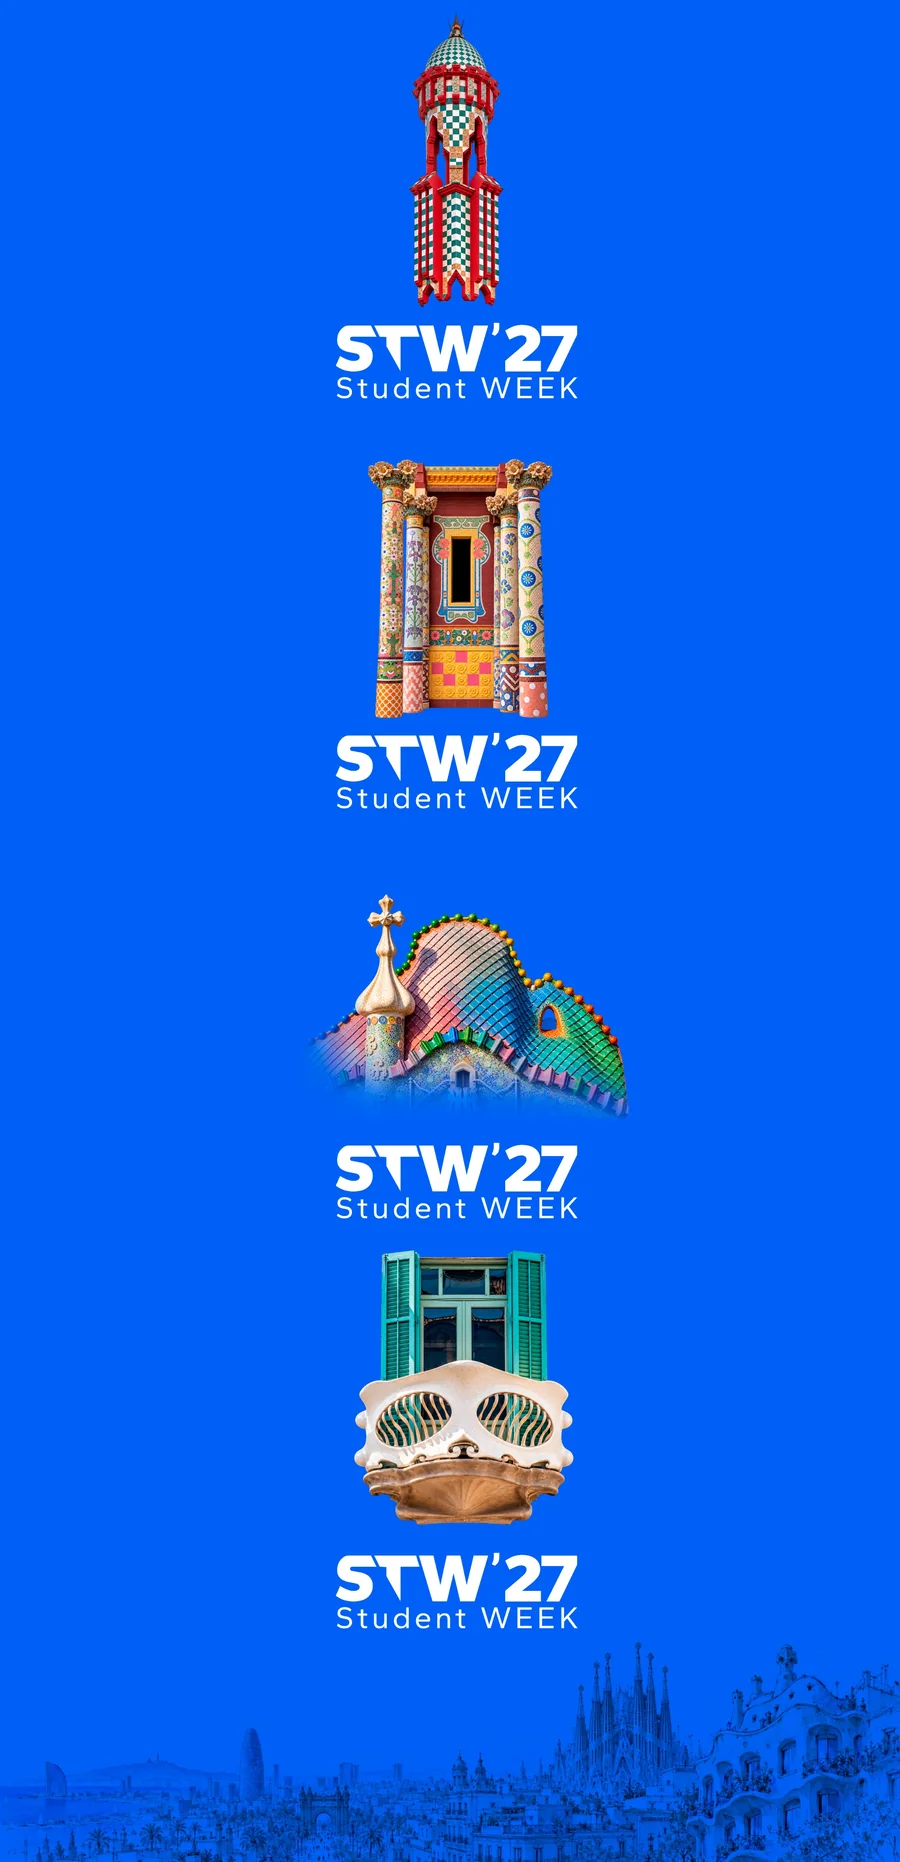
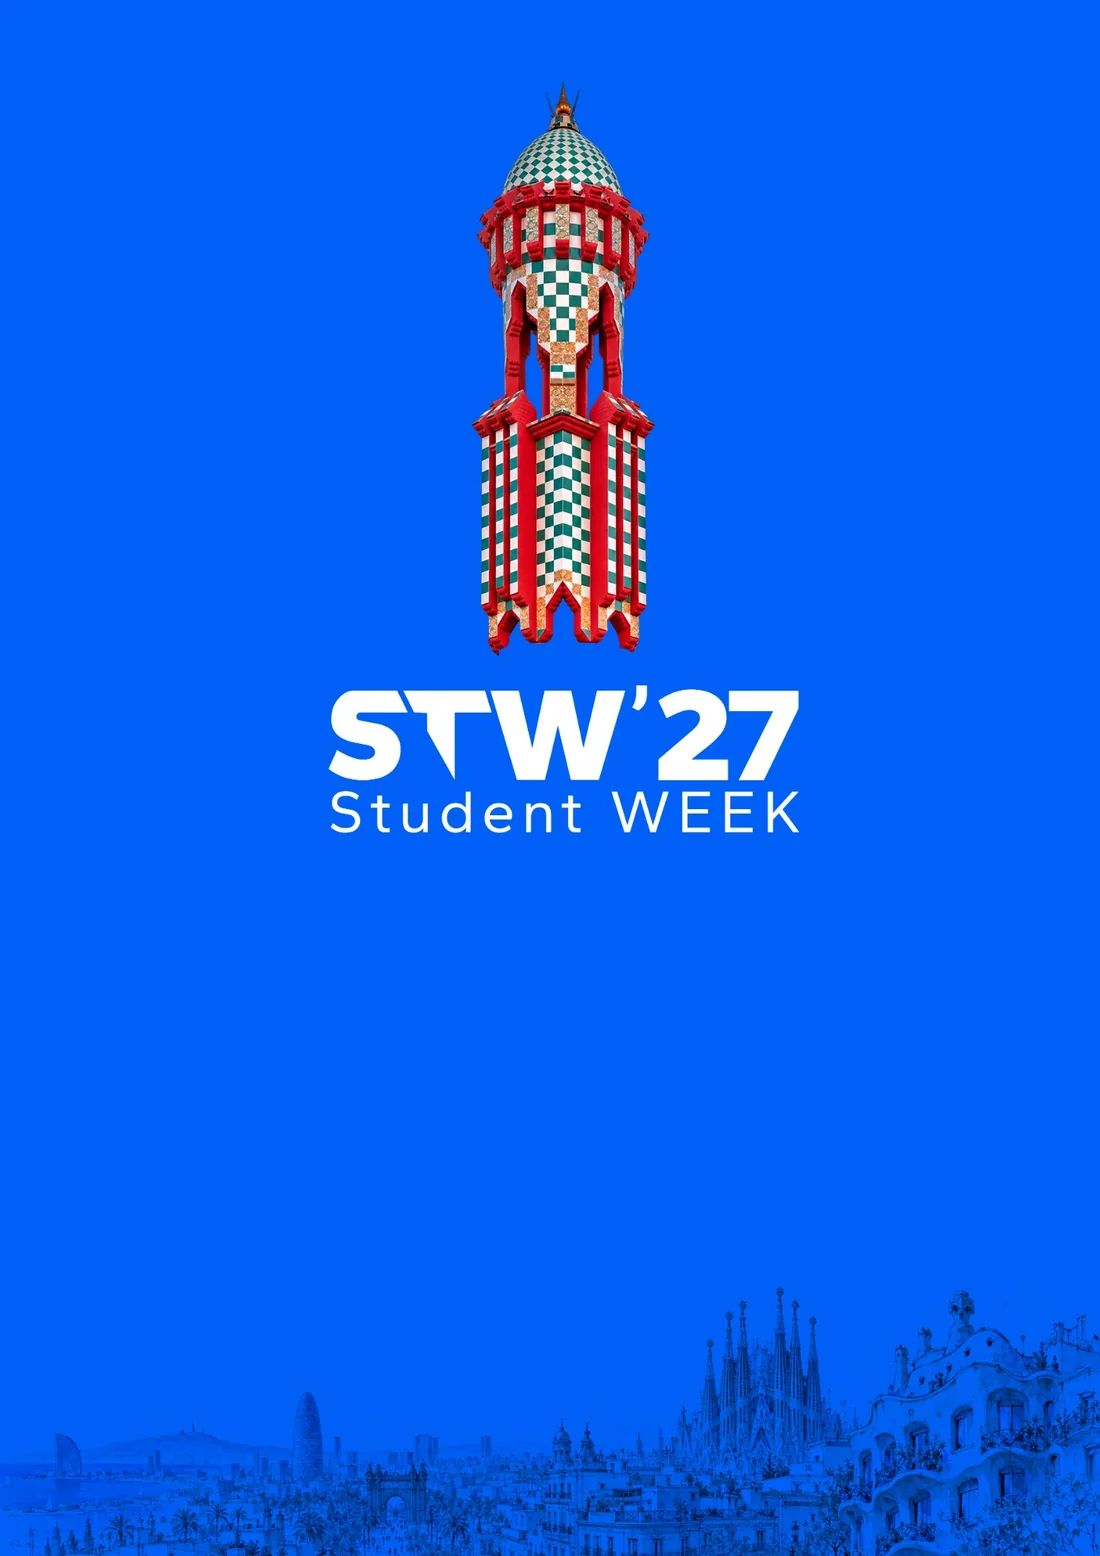
Student Week: single 2027 column piece, no veil
Claude-Session: https://claude.ai/code/session_01FyouQdSsVKyt1hEUqojYM4

Changed region(s): [[0.0311, 0.0, 1.0, 1.0]]

diff --git a/src/data/projects/event-visual-identity.js b/src/data/projects/event-visual-identity.js
@@ -35,7 +35,7 @@ export default {
   // panoramic cell (s4) instead of a small 9:7 one — same 5 captions, no text changed.
   shots: [
     { video: "/projects/event-identity/resumen-stw-2025-web.mp4", poster: "/projects/event-identity/resumen-poster.jpg", caption: "2025 · Applied to the live event" },
-    { src: "/projects/event-identity/2027-preview.webp", caption: "2027 · Preview", veil: "Preview", pos: "50% 0%" },
+    { src: "/projects/event-identity/2027-preview.webp", caption: "2027 · Preview", pos: "50% 25%" },
     { src: "/projects/event-identity/2024-preview.webp", caption: "2024 · Casa Batlló" },
     { src: "/projects/event-identity/2025-preview.webp", caption: "2025 · Casa Batlló" },
   ],
